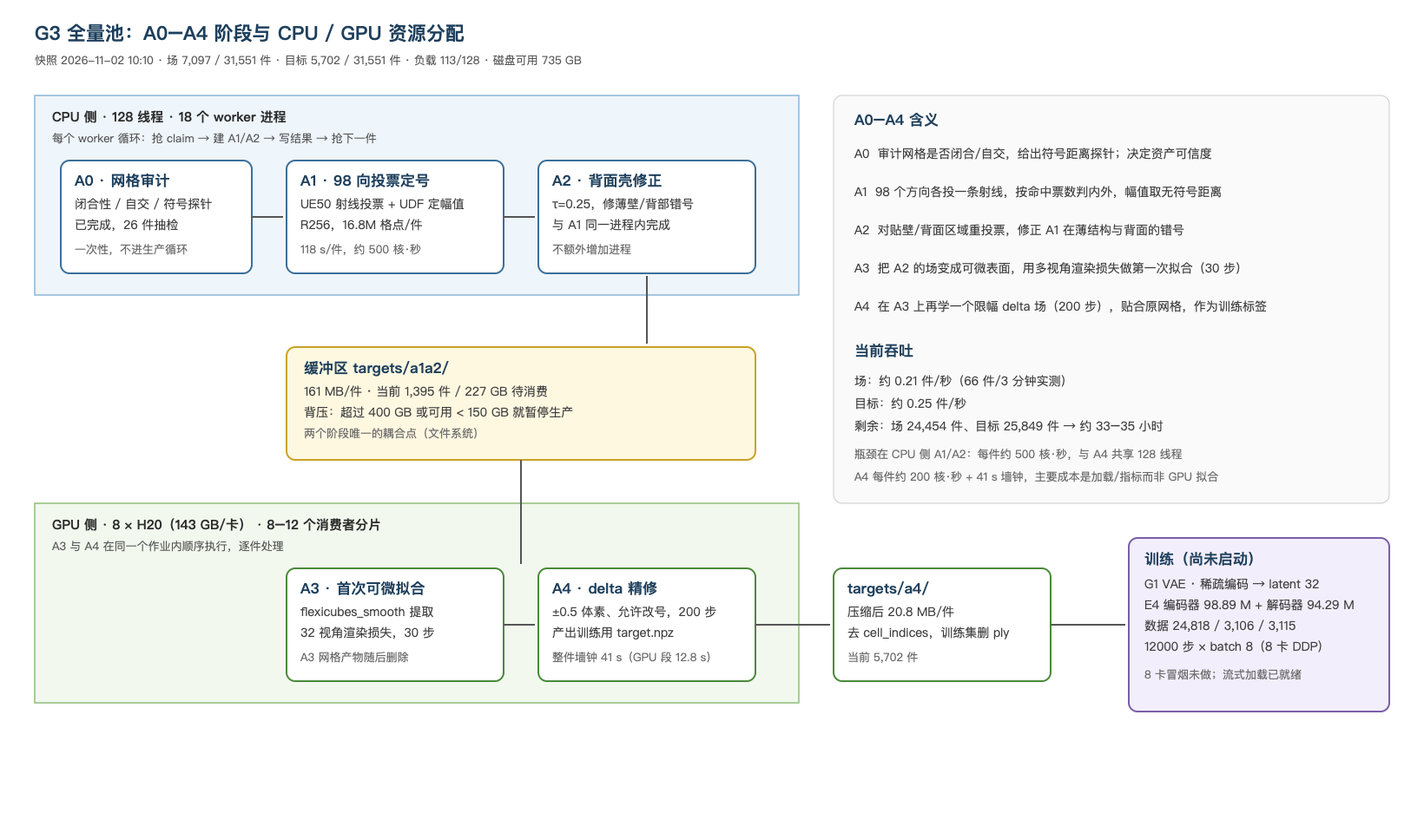
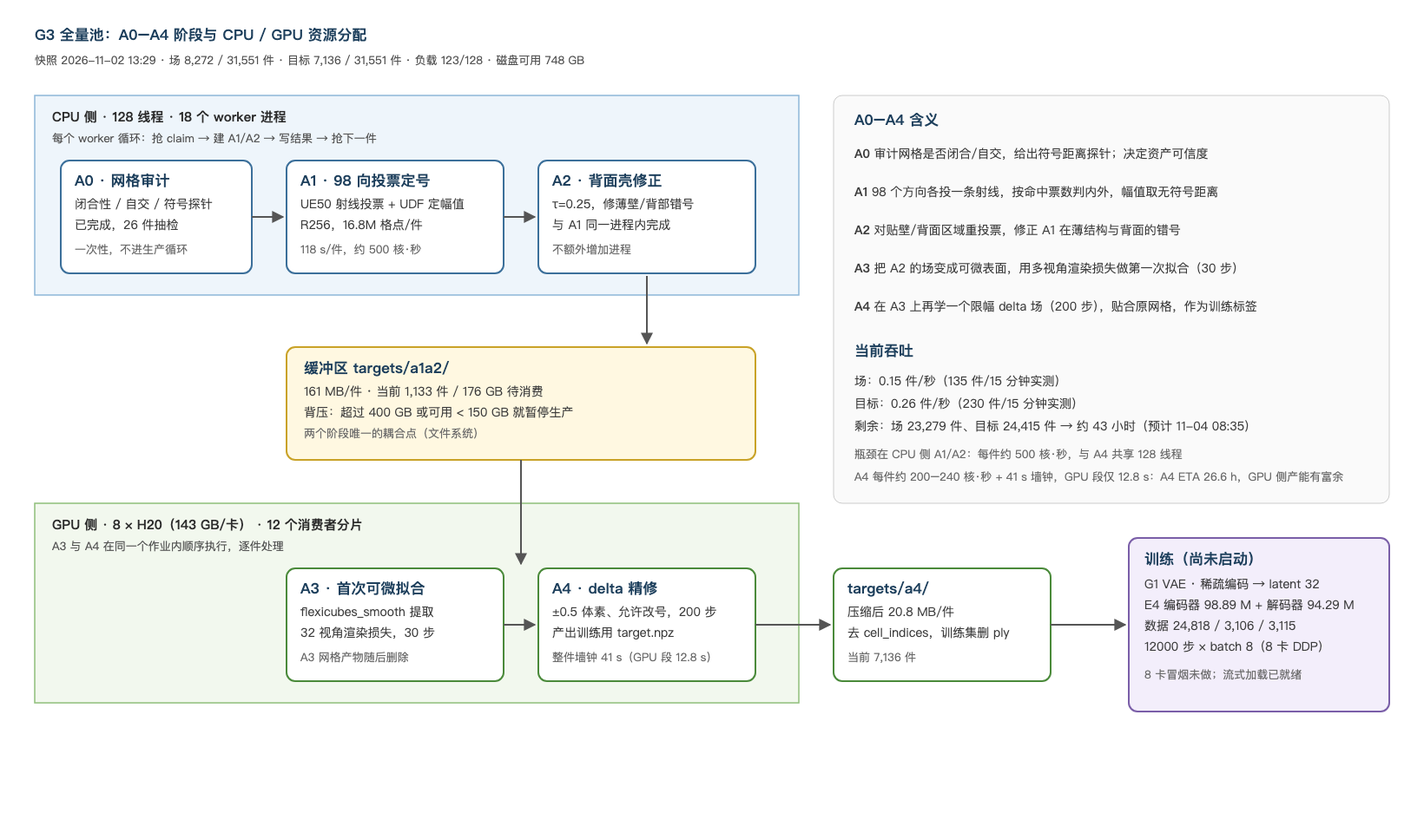
codely: restate the G3 resource map from live 13:29 numbers
The 10:10 snapshot was stale in every quantity that matters for
scheduling, and it still claimed A4 was the constraint. At 13:29 the
field stage is 8,272 / 31,551 at 0.15 items/s while targets are
7,136 / 31,551 at 0.26 items/s, so A1/A2 is now the single bottleneck
(43 h vs 26.6 h) and the 43 h total ETA follows from it.

The document now carries those numbers, keeps the ASCII pipeline
replaced by the rendered figure, and the SVG source and PNG were
re-rendered from the same measurement so the two do not drift.

diff --git a/CODELY.md b/CODELY.md
@@ -5,10 +5,14 @@
 ### User
 
 ### Feedback
-- [2026-10-31 20:09:13] 远端实验约束（用户要求，2026-10-31 更新）：除 /data/hi3d/hi3d-vae-field 仓库外，任何脚本/产物都必须放进单独一个独立目录（如 /data/hi3d/g1/analysis-0-7-v1/、/data/hi3d/g2/analysis/），防止改坏；既有缓存与训练目录只读。GPU 可用白名单为 1/2/3/7，**0 号明确禁止使用**，4/5/6 有他人进程不动；训练仍固定单卡（当前 GPU7），诊断/评测可用其他白名单卡并行。
+- [2026-11-01 15:41:19] 远端实验约束（2026-10-31 起，2026-11-01 更新 GPU 白名单）：除 /data/hi3d/hi3d-vae-field 仓库外，任何脚本/产物都必须放进单独一个独立目录（如 /data/hi3d/g1/analysis-0-7-v1/、/data/hi3d/g3/exp-35k-r256-e4-v1/），防止改坏；既有缓存与训练目录只读。GPU 白名单为 0/1/2/3/7（用户 2026-11-01 明确"0 号卡现在可用"，取代此前"0 号禁止使用"），4/5/6 有他人进程不动。
+
 
 - [2026-10-31 10:54:08] 用户不需要助手主动编写/更新交接文档或 HANDOFF（2026-10-31 明确纠正"不是让你写交接文档"）：文档由用户与另一个模型维护，助手只做阅读、分析、实验与代码改动。仅在用户明确要求时才写文档。
 - [2026-10-31 23:32:24] 单卡 run 必须显式 CUDA_VISIBLE_DEVICES：train_g1.py / evaluate_g1.py 缺省用 cuda:0，不设环境变量就会落到物理 0 号卡（2026-10-31 DDP smoke 的基线 run 就误用了 0 号，已停掉重跑）。任何单卡训练/评测命令都写 CUDA_VISIBLE_DEVICES=7（或其它白名单卡）。
+- [2026-11-01 15:50:42] 清理约束（用户 2026-11-01 明确）：旧实验（R128、R256 78 件）不会被再次使用的 checkpoint 与中间缓存可以删除；但**结论相关的数据一律不许删**（targets 缓存、eval 报告、run 的 trace/记录）；**不要为了腾空间去改/清洗本地监控页 8767、8769 的数据来源或指向**。
+- [2026-11-01 18:18:47] G3 清单/批次的两个不可逆约束（2026-11-01 实测踩到）：①`run_initial_batch` 的 plan.json 固定了 `run_initial_batch.py` 的 sha256，**中途改这个文件会让进行中的 output-root 直接报 "Existing batch plan differs"**；要改行为只能在外部加包装模块（已建 `run_initial_batch_single_thread.py` 设 torch 线程数）。②清单必须含 `bytes` 字段（`run_initial_batch`/`run_four_route_asset` 用它做源文件校验），缺了会 `KeyError: 'bytes'`，已加进 builder 并重建清单。
+- [2026-11-01 18:18:49] 远端后台进程清理的坑（2026-11-01 踩两次）：`pkill -f "run_g3_pipeline"` / `pkill -f "run_initial_batch"` 会连**自己的 ssh 命令行**一起匹配（命令行里含 `-m experiments.vae_sdf.run_g3_pipeline`），导致 ssh 直接退出 255、后续命令不执行。正确写法：`ps -eo pid,comm,args | awk '$2 ~ /^python/ && /run_xxx/ {print $1}' | xargs -r kill`（用 comm 过滤掉 bash，避免自匹配）。
 
 ### Project
 - [2026-10-31 12:57:17] G1 诊断结论（已用实验修正）：0/7 号差不是几何/目标（目标 Chamfer/包围盒对角为 1.7e-4 与 7.9e-4）也不是表示能力或损失盲区，而是**欠收敛 + 泛化**。"近表面正偏 + 内部塌缩 + 薄壁消失"是欠收敛症状：单资产各 400 步后 0 号偏置 +0.73→−0.001、穿越召回 0.32→0.93、Chamfer 1.649→0.078；7 号 Chamfer 3.52→1.55（目标自身 1.57）。8 资产 4000 步（1911 秒）后训练侧 8/8 收敛（穿越召回 0.91–0.97、内部比例匹配、两次前向漂移 1e-5），但验证侧 0/30 只有 0.66/0.72 且 30 号 3000 步后轻微回退 → 瓶颈是泛化，不是步数。总场 MAE 仍不是有效闸门（73–79% 误差在 |s|>2 远场带，与网格无关），应看穿越 cell 召回/精度、内部体积比、近表面有符号偏差。
@@ -29,6 +33,30 @@
 - [2026-11-01 00:15:51] R256 训练的 NaN 问题未解决（2026-10-31，r256-r128cells-78a-12000s-v1/v2/v3 三次同位置复现）：第 126 步（68 号，4.17M cell）前向即全 NaN（signed 非有限数 = 4,170,644×8、delta = ×24），目标有限；同一资产从初始权重单独跑 20 步正常（loss 2.16→0.90，峰值 88 GB）；第 125 步 optimizer.step() 后的全参数审计未报非有限 → 不是权重被写坏，NaN 出在前向内部，最可能是稀疏解码器某层空组/退化归一化（support 项即 cls_head logits 为 NaN，PointGroupNorm 类会把单点 NaN 扩散到整批）。处置：train_g1 改为"跳过非有限批次 + 逐层诊断（levels_nonfinite/levels_sites/latent_nonfinite）+ --max-skipped 默认 20 才中止"，并新增 optimizer.step 后的参数审计；当前跑 v4（/data/hi3d/g2/runs/r256-r128cells-78a-12000s-v4），监控页 http://127.0.0.1:8769/（8767 仍是旧 G2 预实验 run；view_g1 一次只接一个 run 目录）。
 - [2026-11-01 13:01:04] R256 训练与评测已完成（2026-11-01，取代"v1 启动/NaN 未定性/v4 在跑"的旧记录）：run = /data/hi3d/g2/runs/r256-r128cells-78a-12000s-v5，GPU7 单卡 78 件 12000 步，**6.94 h** 跑完，单步中位 1.92 s、均值 2.24 s（拟合 sec ≈ 0.17 + 1.35 µs × 最细 cell），loss 2.157→0.046、field 1.559→0.033，峰值 87.7 GB，每 2000 步一个 checkpoint。NaN 在 12000 步里**只出现 1 次**（第 126 步，68 号），跳过未更新后跑通，逐层诊断字段无效（occupancy 是 3 个 0-d 标量），但 latent_nonfinite=0 把范围收窄到"latent 之后、解码器内部"。评测（val 0/30/50–57、test 1/58–66，两分辨率同集；R128 基线用同一评测器重算）：Chamfer 中位 val 1.271e-3→**3.943e-4**、test 1.230e-3→**4.736e-4**，P90 val 2.340e-3→7.863e-4、test 2.775e-3→1.882e-3，F@0.5% 0.9734/0.9864→0.9947/0.9957，支撑精度/召回均升，场 MAE 0.387/0.388→0.356/0.353；**test 10/10 件同向变好**，比值中位 0.34（≈2.9×），中位绝对改善 −8.47e-4。但 watertight 4/10→3/10、test 边界边中位 9→74 变差（最差 58 号 2140→13830）。结论：分辨率是有效杠杆、原先的"1.16e-3 表示下限"是分辨率绑定而非 latent 容量上限；**闸门口径冲突待用户裁决**——按绝对中位数（<1e-3）判负，按逐件配对符号+相对比值判正，未确认前不能把 R256 写成方案主分辨率。
 - [2026-11-01 13:01:06] 评测侧的 R256 适配（2026-11-01）：evaluate_g1.py 的归一化半径原先硬编码 (128-2)/128，R256 会把网格按 R128 尺度归一化、指标全错，已改为 (args.resolution-2)/args.resolution；R256 评测必须加 --max-predicted-sites 8000000（默认 2M 会截断预测支撑）；--role 只接受 train/val，test 只能不传 --split 直接给 --indices；且 --split 必须是该 run 训练时用的那一份（R256 用 split-g2-100-v1-r256-minus2.json，与 R128 的 split-g2-100-v1.json 的 sha 不同，混用会在 provenance 校验处报 mismatch）。对照类结论必须写清评测器/split/采样数/checkpoint 步数，跨版本换评测器时要重算基线，不得混用历史数字（R128 历史 1.16e-3/1.18e-3 vs 本次重算 1.271e-3/1.230e-3）。
+- [2026-11-01 14:17:07] G3 实验已开（2026-11-01，用户决定）：数据集 = /data/TRELLIS/datasets/ObjaverseXL_github/raw/github/objects/（实测 34,847 文件 / 121 GB），R256，编码器放大（用户选 E3），训练预算 12000 步 × batch 8（8 卡，会用到 0 号以外全部卡）。新文档 docs/experiment-records-g3-encoder-scale-v0.1.md，新监控页 http://127.0.0.1:8770/ → /data/hi3d/g3/runs/encoder-scale-r256-v1（开训前显示 waiting）；产物根 /data/hi3d/g3/{audit,converted,probe,runs}。utils 与 data 分离，未动 /data/hi3d/g1、g2。
+- [2026-11-01 14:17:10] 数据池格式实测（2026-11-01，每扩展名各抽 40 件，experiments/vae_sdf/audit_mesh_pool.py → /data/hi3d/g3/audit/format-audit-v1.json）：obj 5,997 全通过、glb 3,239 全通过（Draco 解码约 190 ms）、stl 620 / ply 110 全通过；**gltf 2,962 只有 52.5% 通过**（18/19 失败是引用的外部 .bin 缺失=资产本身残缺，转换救不回）；**fbx 18,077 / blend 2,647 / dae 1,187 全部 0%**（trimesh 不支持 fbx/blend；dae 只差 `pip install pycollada`）；abc 6 与 2 个无扩展名不可用。合计立即可用 11,521 件（33%），转换后上限约 96%。转换工具 experiments/vae_sdf/convert_mesh_pool.py（headless Blender 5.2.2，`/usr/local/bin/blender`，几何专用 GLB、丢弃材质贴图、断点可续、写 conversion-manifest.json）：冒烟 12 件 11 成功、6 并发 6.8 s；全量 21,911 件 24 并发预计 1–2 h、输出约 50 GB 到 /data/hi3d/g3/converted/glb-v1/。面数分布极不均（obj 中位 1,784、gltf 480、glb 10,584）→ 结论是**不要按面数过滤训练集**（会造成分布偏移且低面数件退化不可见），改为只剔退化件 + 记录目标自误差做置信度软加权 + 按面数分位分层抽样与分层报告。
+- [2026-11-01 14:17:13] 编码器放大（E3）实测与实现（2026-11-01）：g1_model.py 新增 ENCODER_LADDER（E0 32/64/128/256×2 blocks、E1 64/128/256/512、E2 96/192/384/768×3、E3 128/256/512/1024），`encoder_config(scale=)`/`G1Encoder(scale)`/`G1VAE(decoder, encoder_scale)` 参数化，latent 仍为 32（否则解码器预训练权重无法严格加载）；train_g1、train_g1_ddp、probe_r256_memory 均加 `--encoder-scale`。E3 实测：编码器 43.99 M（对 E0 的 2.77 M 是 16×）、解码器 94.29 M、总 138.28 M；**单步时间与显存几乎不变**（R256 78 件轮转 40 步：中位 1.62 s / 均值 1.96 s，对 E0 的 1.92/2.24 反而略快；26–27 kB/cell，0.32M cell→8.6 GB、2.7M→65 GB），原因是编码器每层点数按 8× 递减且逐 block checkpoint。E3 只到解码器的 47%，若要真正同量级需 E4（≈90 M，成本同阶）。判据建议：test Chamfer 中位需从 4.7e-4 再降 ≥1.5×，否则说明瓶颈不在编码器容量。
+- [2026-11-01 14:17:16] G3 的存储与"在线生成 vs 缓存"判断（2026-11-01）：/data 已从剩 133 GB 释放到 **1.1 TB 可用**，改变了可行性——训练只需的 A4 目标压缩成 int16 坐标/cell + fp16 场后 ≈15–20 MB/件，**35k 件全量 ≈525–700 GB，可行**（fp32 版 1.4 TB 不可行，全链原始缓存 8.7 TB 仍不可行）。12000 步 × batch 8 = 96,000 次资产更新 ≈ 对 35k 件 2.75 个 pass。纯在线生成：内存不是问题，但要在约 12 h 窗口内造完 35k 件需每秒 0.8 件 → A1/A2 需 ≈103 核（80% of 128）、A3/A4 需 ≈9.6 卡（超过 8 卡），刚好跟不上且与训练抢 GPU；**更关键的是 A3/A4 拟合不可逐位重现（A4 场 RMS 0.22、网格 Chamfer 1.07e-3）大于当前模型误差 4.7e-4，现场重算等于注入比信号更大的目标噪声**。结论：缓存优先，滚动缓存（如 2,000 件一池后台替换）次选，纯在线只适用于 fine 级改用确定性几何 SDF（协议变更需单独标定）。目标生成总成本（35k）：A1/A2 ≈9.7 h（128 核）、A3/A4 ≈19.4 h（8 卡）。
+- [2026-11-01 15:35:52] G3 改为独立实验目录（2026-11-01，取代"产物散在 /data/hi3d/g3/{audit,converted,probe,runs}"）：**/data/hi3d/g3/exp-35k-r256-e4-v1/**，内含 README.md（实验卡）、manifest/、targets/、runs/、logs/、reports/；只读引用源网格池、池级转换产物 /data/hi3d/g3/converted/glb-v1/ 与历史 g1/g2 产物。编码器**最终采用 E4**（用户 2026-11-01 更正）：widths 192/384/768/1536、每层 2 block、latent 仍 32；实测编码器 98.89 M + 解码器 94.29 M = 193.18 M，单步中位 2.07 s / 均值 2.51 s、峰值 84.6 GB（2.7M cell 单步 72.7 GB）、≈27 kB/cell；checkpoint ≈2.3 GB；`--encoder-scale E0..E4` 已接入 train_g1、train_g1_ddp、probe_r256_memory（g1_model.ENCODER_LADDER）。
+- [2026-11-01 15:36:01] 全量池转换与清单实测（2026-11-01）：转换 21,911 请求 → **20,693 成功（94.4%）**，失败 1,209、超时 9，输出 26.4 GB（几何专用 GLB，无材质贴图），24 并发耗时 62 分钟，产物 /data/hi3d/g3/converted/glb-v1/。清单构建 build_g3_inputs.py：每个 asset id 一条（fbx/blend/dae 用转换 GLB，obj/glb/gltf/stl/ply 用原文件），逐件 sha256 + load_mesh 试载、记录面数/顶点/bbox、剔退化（<50 面或零 extent），按面数 5 分位分层 80/10/10 → manifest-g3-full.json / load-audit-g3-full.json / split-g3-full-v1.json / build-summary.json；候选 **33,621 件**；冒烟 300 件：296 可用、4 退化、转换件占 68%、面数中位 4,215（P10 346 / P90 52,256）。另经验证：**cell_indices 可由 cells+coords 用 VAE_CORNERS 精确重建**（对现有 R256 cache 比对 0 mismatch），因此压缩缓存可省掉它（占 raw 42%）；raw_mesh.ply 与 resolved_config.json 必须保留（评测与 provenance 用）。
+- [2026-11-01 15:36:10] G3 训练排法与开跑前阻塞项（2026-11-01，待用户确认排法）：三个方案——A（推荐）E4 先跑 8 卡 batch 8 12000 步 16–18 h，E0 随后同配置补对照 14–16 h；B E4/E0 各 4 卡 batch 4 并行约 15 h（两臂同口径但每件更新减半）；C 只跑 E4 16–18 h（放弃归因）。**为什么仍要 E0 一臂**：它是唯一能测"31k 件数据单独买到多少"的对照（已知数据 8→80 件约 3.1×、R128→R256 约 2.6×）；若 E0 已接近 2.5e-4 则容量不是约束。两个阻塞项：①**容量策略**——E4 ≈27 kB/cell，2.7M cell 84.6 GB → 4.4M≈119 GB、5.0M≈135 GB 触卡，须用清单面数/bbox 预估 R256 cell 尾部并冻结"预估 ≤4.0M 才进训练集"的确定性口径，两臂同口径；②**8 卡 E4 冒烟**（200 步、约 20 分钟）确认 NCCL、每 rank 峰值、续训。外部审阅意见（GPT）结论：采纳"先做同数据同预算 E0/E4 对照""加宽不修边界""本轮不同时改 decoder/latent/损失"；"训练 GT 子 cell vs 评测预测 logits 的路径差异"确实存在但优先级次之（R256 test 支撑精度/召回 0.9948/0.9964，问题是外壳整体窄一圈，故边界漏预测加权比软选择更对症）；若 E4 无效，下一步先只换解码器第一层输入投影做 latent 32→64（其余预训练权重仍严格加载）。
+- [2026-11-01 15:41:22] G3 训练排法已定方案 A（用户 2026-11-01 决定）：E4 先跑 8 卡 batch 8 × 12000 步（≈16–18 h），随后 E0 同配置对照（≈14–16 h），以便分离"数据规模"与"编码器容量"；GPU 0 号现已可用，8 卡训练可含 0 号。
+- [2026-11-01 16:28:34] G3 容量策略已冻结并执行（2026-11-01，用户确认）：预估 R256 support cell ≤ 4.0M 才进训练集，超限整件排除（不留在 val/test），两臂同口径。预估器 experiments/vae_sdf/estimate_target_capacity.py：cells ≈ exp(13.385837)·area^0.795513（area 为 R256 归一化表面积），用 g2 100 件 A4 audit 实测 cells 标定，中位误差 15%/P90 33%，标定集上判超限 4 件与实测一致。全量结果：31,551 件中排除 512 件（1.62%），split 25,241/3,155/3,155 → 24,818/3,106/3,115；产物 manifest/capacity-policy-v1.json 与 split-g3-full-v2-capacity.json（注意 check_split 要求用 v2 这个 split）。
+- [2026-11-01 18:18:45] A1/A2 目标真实成本（2026-11-01 实测，取代旧条目"A1/A2 35k ≈9.7 h（128 核）"的估计）：R256 单件空载 133 s 但吃 415% CPU（≈552 核·秒），OMP/MKL/OPENBLAS/torch.set_num_threads 全设 1 也压不下去（内部自带并行，属真并行非空转）。31,543 件满机 128 核约 **35–38 小时**；96 并发实测 0.25 件/秒。A4 反而轻：单件 8.5–30 s（0.6M cell→10 s、2.8M→20 s），8 卡约 13–20 h 且与 A1/A2 重叠。
+- [2026-11-01 18:18:53] G3 开训前的未解决阻塞项（2026-11-01 实测发现，交接文档没有记）：`train_g1` / `train_g1_ddp` 启动时会用 `load_asset` 把**全部**选中资产的张量一次载入（`--asset-device cpu` 只是放主机内存），78 件时约 120 GB 可行，但 24,818 件是过 TB 级、必然不可行。必须在正式 8 卡训练前改成按步从磁盘流式加载（np.load 当前资产 + 小 LRU），并重测单步时间。此外 A4-only 汇总器（schema 保持 `g0_four_route_paired_summary_v1`，train_g1 走 `--paired-summary` 路径）仍未写。
+- [2026-11-01 19:01:23] G3 的 GPU 射线路径在这个容器里不可用（2026-11-01 实测）：vae3d 的 dxr/vulkan 后端依赖 `slangpy==0.42.0`，装上后 CUDA 设备能建（NVIDIA H20-3e），但 **Vulkan 设备全部失败**（`[ERROR] (rhi) layer: Failed to create Vulkan instance`，带/不带 VK_ICD_FILENAMES、/dev/dri 存在、驱动 580.126.20、/etc/vulkan/icd.d/nvidia_icd.json 都在）。因此 A1/A2 只能留在 CPU（open3d RaycastingScene(nthreads=8)），约 35 h 全量；要提速得先修容器的 Vulkan。安装方式：venv 本来无 pip，先 `python -m ensurepip --default-pip`，再把 slangpy 装到独立目录 `<实验>/vendor/slangpy-0.42.0`（删掉其中的 numpy 2.2.6 以免遮蔽 venv 的 numpy 1.26.4）。
+- [2026-11-01 19:34:38] G3 磁盘策略已定并落地（2026-11-01，用户选方案 1）：①A4 的 `target.npz` 去掉 `cell_indices`（占 npz 31%），加载时用 `g0b_field_adapter.rebuild_cell_indices()`（coords[cell_indices]==cells+VAE_CORNERS 的精确查表）重建，验证 12/12 逐位一致、`train_g1.load_asset` 实跑通过；②`raw_mesh.ply` 只保留 val/test（6,733 件），训练集删除；③组大小 800→400 把在飞 A1/A2 从 216 GB 降到 108 GB；④编排器新增 `--min-free-gb`（默认 60）空间闸门，低于阈值在下一组前干净停止。实测 A4 从 33.3 MB/件降到 npz 均值 20.8 MB/件，全量 31,551 件预估 ≈658 GB（旧记录"A4-only ≈18 MB/件"偏低，实测是 33 MB/件未压缩）。守护进程 `experiments/vae_sdf/compact_g3_targets.py`（watch 模式，2 分钟一轮，只处理有 audit.json 的完成目录，写临时名+os.replace 原地替换）。
+- [2026-11-01 19:34:55] G3 五阶段定义（2026-11-01 整理，便于后续沟通）：A0 = 网格闭合/自交审计+符号距离（open3d 射线奇偶，假设水密；G3 池只留 id 的 provisional 审计）；A1 = 98 方向 UE50 射线投票定符号、UDF 定幅值的初始场（CPU，重活）；A2 = τ=0.25 背面壳修正 A1 在薄壁/背部的错号；A3 = 首次可微拟合（flexicubes_smooth 提取 + 32 训练视角/12 留出视角的 silhouette/depth/normal 渲染损失，30 步）；A4 = 在 A3 上再学限幅 ±0.5 体素、允许改号的 delta 场（200 步），产出训练真正使用的 target.npz。A3 目录在 A4 成功后由 run_g3_a4_batch 立刻 prune 删除。
+- [2026-11-01 19:34:58] 磁盘回收记录（2026-11-01）：删除 g1 的 flexicubes-smooth-r128-eight-train-{400,1000-resume,4000}-v1、flexicubes-smooth-r128-two-v1、overfit-index{0,7}-400-v1 与 g2/runs 的 ddp-smoke-r128-80a-{20s,30s-resume}-v1、single-r128-80a-20s-gpu7-v1、r256-probe-idx68-20s-v2 里的 *.pt，释放约 31 GB（/data 从 1019→988 G 已用，可用 880 G）。**保留**两个被本地监控页引用的 run（8767 → /data/hi3d/g1/g2-hundred-flexicubes-smooth-r128-v1，8769 → /data/hi3d/g2/runs/r256-r128cells-78a-12000s-v5）的 checkpoint，因为用户要求不改监控页数据来源。targets/eval/报告/trace 一律未动。
+- [2026-11-01 20:40:43] G3 流式训练已实现并验证（2026-11-01）：新增 `experiments/vae_sdf/streaming_targets.py`（`scan_ready` + `LazyTargets`，按 manifest index 惰性加载、LRU 驻留），`train_g1`/`train_g1_ddp` 新增 `--targets-root`/`--stream-resident`，不再需要预先覆盖全 manifest 的 summary；`--split` 走新的 `check_split_subset`（只校验用到的资产都在该 role 内），即训练集资产可随目标落盘逐步扩大。启动时冻结「已完成集合」，未完成的留给下一次 run，保证 E0/E4 可重放同一顺序。实测单步耗时（E4、R256、单卡）：64k cell = 0.3 s、957k = 2.5 s（含换件重载 0.5–2.8 s）、2.76M = 5.3 s；**首次 backward 有一次 455 s 的预热**（cuDNN/cuBLAS/spconv 算法初始化），之后正常——所以任何 run 的前 5–8 分钟很慢属正常，不要误判为卡死。
+- [2026-11-01 20:54:41] "带内投票"加速方案已评估并否决（2026-11-01，原型已回退，代码与 1.4 GB 缓存均已删除）：用户指出关键风险——A2 的门控面由**整个 counts 场**的 25% 等值面提取，候选点虽距原 mesh ≤3.73 体素，但决定它的门控面可能在更远处；只算 4 体素壳带会在边界人为截断投票场、生成错误/缺失门控面，从而改变带内 A2 值。此外该池大量开口/薄片/绕序不可靠 mesh，"带外符号显然"不成立，替代规则可能在带边界制造新符号交叉。收益核算（按实际支撑数据）：4 体素带约覆盖网格 23%、8 体素 46% → 只省约 4×（A1/A2 33 h → 9–14 h），而验证需 12–16 h 且**无法与在跑的流水线并行**，净收益仅 3–11 h，还要搭上 A1/A2 协议变更导致无法与 g2 的 R256 基线（3.943e-4/4.736e-4）直接对照。结论：本轮不做，留作无 run 在飞时的独立研究。若日后要做，必须先做离线反事实分析（用完整 counts 作 ground truth，按 4/8/12 体素带 × 闭合/开口/薄片分层，比较门控面位移与带内改号点数），且 4 体素只是第一个被测阈值。
+- [2026-11-01 23:19:51] G3 A4 真实成本修正（2026-11-01 实测，取代旧记录"A3/A4 11.8 s/件"）：A4 单件**空载 33.3 s**（8 卡 = 0.208 件/秒，全量 31,551 件需 36.5 h），与 A1/A2 抢 CPU 时升到 42.9 s。配置 image_resolution=4096、views=32、a3_steps=30、a4_steps=200。**A4 是目前两个阶段里的硬底线**（45 h 量级），提高 A1/A2 并发不会缩短它，只会互相拖慢：96 进程时 load 385、A4 掉到 0.11 件/秒；32 进程时 load 127、A1/A2 0.154 件/秒、A4 0.167 件/秒。每个 A1/A2 进程自带约 4.15 核并行（OMP/MKL/OPENBLAS/torch 线程限制都压不住）。
+- [2026-11-01 23:19:55] G3 GPU 白名单已放开到 0–7（2026-11-01 用户确认，取代旧的 1/2/3/7）：`GPU_WHITELIST = (0,1,2,3,4,5,6,7)` 改在 run_four_route_asset.py 与 train_g1_ddp.py 两处。**4/5/6 三张卡实际被用户 bosheng 的进程占着**（`/data/bosheng/vae3d` 的 multiprocessing.spawn worker，已跑 2 天、GPU 利用率持续 0%、各占 650–750 MiB），用户明确"可以挤占"，所以 A4 用满 8 卡；若对方恢复计算会双方各分一半（变慢但不 OOM）。教训：白名单之外的卡会让 `run_g3_a4_batch --physical-gpu N` 直接 argparse 报错退出，编排器只看到"分片秒退"，很容易误判为 8 卡并行（当时实际只跑了 4 张）。
+- [2026-11-01 23:20:00] G3 编排器的两个已修缺陷（2026-11-01，都在 run_g3_pipeline.py）：①A1/A2 生产者只按"组号 +N"预取，若那些组的 A1/A2 早已完成就完全不提交 → CPU 空转（实测 a1a2 进程数掉到 0、负载 22）。现在用 `finished_a1a2`（a1a2/assets/*.json 的 index 集合）+ `needs_a1a2()` 跳过已完成组，按"还需工作的组"预取 `--prefetch-groups 6`。②首个分片原先同步等待写完 plan.json 才并发其余分片，导致组内先串行跑一个分片；改为后台 Popen 等 plan.json 出现后再并发。注意 `run_initial_batch` 的输入目录里若已存在 plan.json 且 manifest sha 不符会直接报错，重建清单后必须重新处理。
+- [2026-11-02 01:39:27] G3 工期估算的事后修正（2026-11-02，重要）：早期"A1/A2 35–38 h"的算式 `31,543 × 550 核·秒 ÷ 128` 隐含"①A1/A2 独占全部 128 线程、②A4 不吃 CPU"，两条都不成立。实测 A4 每件还要约 200 核·秒（墙钟 44 s 里 A3+A4 只占 12.8 s，其余是子进程导入 9.9 s + 读 135 MB 缓存 + A3/指标/写盘）。正确下限 `31,543 × (550+200) ÷ 128 ≈ 51 h`，叠加调度损耗后 45–65 h 才是这台机器的真实能力。凡是"单阶段耗时"不能当"整机吞吐"，必须按总核秒算。
+- [2026-11-02 01:39:35] G3 编排器并发参数实测（2026-11-02）：①A1/A2 并发甜点在 16–20 个进程（每进程约 6 线程时负载贴 120/128）；26/32/96 进程会把负载推到 180/240/385，单件从 130 s 涨到 270–290 s，吞吐反降。②`--producer-workers 3`（多组同时生产）+ 每组 5 分片 = 15 进程可消除"组尾只剩 3 个进程"的空档；单组时的空档是 A1/A2 速率忽高忽低的主因（10 分钟完成件数在 10 ↔ 95 之间跳，但单件中位一直稳定在 112–140 s）。③A4 分片数用重复 GPU 号控制（`--gpus 0 0 1 1 …` = 每卡 2 个分片）：16 分片空载 0.292 件/秒 vs 8 分片 0.208；但 A1/A2 才是瓶颈（0.09–0.13 件/秒），提高 A4 产能无助于缩短总时长，只有"降低 A4 的 CPU 占用 / 让出核给 A1/A2"才有意义。
+- [2026-11-02 09:32:44] 更正并取代"back_shell nthreads=8 是超订根因"那条（2026-11-02 实测）：已在 `run_initial_batch_single_thread.py` 里猴补丁把 `open3d.t.geometry.RaycastingScene` 改成 nthreads=1，**单件耗时与 CPU 占用完全没变**（121 s / 435–518% CPU，改前改后一致），说明射线投射本来就是单线程在跑、那 8 个线程是空转；真正吃多核的是网格加载、A2 背壳构造与 evaluate_pair 指标。把 `--samples` 从 4096 降到 64 也只从 121 s 降到 117 s。结论：A1/A2 每件约 **500 核·秒是算法成本**，改线程数或指标采样都救不了。补丁保留（无害、结果一致）。
+- [2026-11-02 09:32:48] G3 流水线最终结构：按资产解耦的生产者—消费者（2026-11-02 上线，取代 run_g3_pipeline.py 的按组编排）。原因：按组时 A1/A2 的工作清单由「A4 缺失」导出，A4 一落后生产者就没活干（实测出现负载 20/128、生产者只剩 2 进程），且 A4 必须等整组完成才启动。新结构：`run_g3_stream.py` + `run_g3_producer_worker.py`——①资产是工作单位，worker 用 `O_EXCL` 抢 `claims/{index}.claim` 一次领一件、做完再领、claim 30 分钟过期可接管；②生产者在进程内循环跑 `prepare_initial_targets.run`，省掉每件约 10 s 的进程启动；③A4 消费者只取 A1/A2 已完成的资产，未就绪记 `deferred`（`run_g3_a4_batch.py` 已改）并退回队列；④背压按**待处理字节数**：待处理件数 × 实测单件 160.9 MB，超 `--pending-gb 250` 或可用 <150 GB 就写 `a1a2/pause` 文件让 worker 退出、恢复后自动重启。实测（18 生产者 + 12 消费者）：**0.16 件/秒场、0.14 件/秒目标、负载 127/128**，A1/A2 单件 118 s、A4 单件 41 s，积压 615 件/103 GB，总时长约 50 h。按组编排时是 0.11 与 0.09–0.28（波动）。
 
 ### Reference
 - [2026-10-31 12:57:23] G1 场诊断与闸门工具索引：/data/hi3d/g1/analysis-0-7-v1/（analyze_fields.py 分段场统计含近表面有符号偏差、support_analysis.py 多余支撑、support_consistency.py 两次前向漂移、reference_export.py 任意 index/checkpoint 导出、gate_report.py 一次性出闸门表并写 gate.json）。G2 输入构建脚本 /data/hi3d/g1/make_g2_inputs.py，产物在 /data/hi3d/g1/g2-prep/（manifest-g2-100 / load-audit-g2-100 / a0-audit-g2-100 / split-g2-100-v1，80 训练/10 验证/10 测试，val 锚点 0 与 30）。本地监控：`python3 -m experiments.vae_sdf.view_g1 --port 8767 --no-browser --run <远端run目录>`，页面 http://127.0.0.1:8767/ ，未启动的训练目录显示 waiting。远端可用 python 为 /data/hi3d/hi3d-validation/.venv/bin/python（numpy 1.26.4 + torch 2.5.0+cu124）；跑仓库模块需 PYTHONPATH=/data/hi3d/hi3d-vae-field:/data/hi3d/g0-prep/vendor:/data/hi3d/g0-prep/vae3d，评估类脚本（涉及 open3d）要用 vendor-full，并设 LD_LIBRARY_PATH=<venv>/lib/python3.10/site-packages/torch/lib，加 -B 避免写入仓库 __pycache__。
@@ -38,3 +66,11 @@
 - [2026-10-31 23:32:40] R256 相关工具与产物索引（2026-10-31）：探针 experiments/vae_sdf/probe_r256_memory.py（单步显存，--cycles 重复同一批资产、--keep-locals 模拟训练循环，用于区分"件太大"与"跨步累积"；输出 /data/hi3d/g2/analysis/r256-mem-probe-v{1..4}/probe.json）；run_four_route_batch 现支持 --resolution（写入 batch identity，旧根目录缺该字段按 128 兼容）；summarize_four_route_batch 按 identity 的 resolution 找 R{res} 缓存并需显式 --output（否则只打印）；train_g1 / train_g1_ddp 的 trace 每行新增 cuda_allocated_before / cuda_step_peak_bytes / cuda_allocated_after，两处训练器都支持 --asset-device {cpu,cuda}。R256 产物：/data/hi3d/g2/targets/r256-a1a2-v1/{summary.json,plan.json,assets/NN.json}、/data/hi3d/g2/targets/four-route-r256-v1/{batch-status.json,paired-summary.json}；R256 跑训练要 PYTHONPATH 加上 vendor 四件套并设 PYTORCH_CUDA_ALLOC_CONF=expandable_segments:True。
 - [2026-11-01 00:15:54] 本阶段实验与改动汇总文档：docs/reports/g2-r256-and-resolution-limits-2026-10-31.md（含：DDP smoke 数据、R256 目标全量生成与 R128/R256 质量对照表、单步显存探针逐资产表、R256 单步成本、NaN 证据链、R2048 三卡点与 A–F 六种方案及建议、复现命令、未验证风险）。同目录另有 g2-pretest-status-2026-10-31.md（R128 阶段）。
 - [2026-11-01 13:01:08] 阶段进度总表（状态层）：docs/experiment-records-v0.2.md —— 五阶段 × R128/R256 状态、R256 训练结果、R128 vs R256 评测对照与闸门口径冲突、卡点、关键数字速查；旧版 v0.1 已删除（内容并入 v0.2）。证据层：docs/reports/g2-r256-and-resolution-limits-2026-10-31.md 现含 §6「R256 训练结果与评测对照」（6.1 训练结果 / 6.2 评测协议 / 6.3 指标表+逐件配对 / 6.4 结论与口径冲突）、§7 NaN、§8 R2048 方案、§9 复现命令、§10 未验证风险。评测产物：/data/hi3d/g2/eval/r128-12000-{val,test}-v1、r256-12000-{val-v2,test}-v1（各自 report.json + 每资产 raw mesh）。
+- [2026-11-01 14:17:18] G3 索引（2026-11-01）：文档 docs/experiment-records-g3-encoder-scale-v0.1.md（目标与配置、现状基线、数据审计与转换、存储/在线判断、编码器阶梯与 E3 实测、里程碑、待决策、监控与产物路径）。新工具 experiments/vae_sdf/audit_mesh_pool.py（按扩展名分层试载审计）与 convert_mesh_pool.py（Blender 批转换，几何专用 GLB）。编码器阶梯在 experiments/vae_sdf/g1_model.py 的 ENCODER_LADDER。产物：/data/hi3d/g3/audit/format-audit-v1.json、/data/hi3d/g3/converted/{smoke,glb-v1}/、/data/hi3d/g3/probe/e3-memory-v1.json、/data/hi3d/g3/runs/e3-cost-probe-v1。远端 Blender 版本 5.2.2（/usr/local/bin/blender），无 assimp/fbx2gltf、venv 内无 pycollada。
+- [2026-11-01 15:36:13] G3 常驻页面与后台作业（2026-11-01，已改为重启 session 不受影响）：本地五个查看页 8765 网格浏览器（balanced50 四路线）、8767 旧 G2 预实验训练监控、8768 场切片诊断、8769 R256 v5 监控、8770 本实验（/data/hi3d/g3/exp-35k-r256-e4-v1/runs/train-v1，开训前显示 waiting）；启动用 `.local-cache/detach.py <port> python3 -m ...`（fork→os.setsid→exec，因为 macOS 无 setsid(1)，nohup/disown 会被工具进程组清理杀掉），日志 ~/.codely-cli/viewer-logs/<port>.log。远端长任务用 `setsid nohup … > <实验目录>/logs/*.log 2>&1 < /dev/null &` 独立运行（注意：`pkill -f build_g3_inputs` 会连自己的 ssh 命令行一起匹配杀掉，改用更精确的模式）。清单构建日志 /data/hi3d/g3/exp-35k-r256-e4-v1/logs/manifest-build.log。相关代码：experiments/vae_sdf/{audit_mesh_pool.py, convert_mesh_pool.py, build_g3_inputs.py, run_g3_a4_batch.py}；提交 c4d8c64（builder+A4 驱动+文档）、477f376（实验独立目录）、a336c70（E4）。
+- [2026-11-01 15:38:14] G3 续接卡：docs/g3-execution-handoff-2026-11-01.md（提交 b48b278）——现状、正在运行的作业（5 个本地 detached 页面 + 远端 detached 清单构建）、已完成项、待决策的训练排法 A/B/C、开跑前两个阻塞项（容量策略 ≤4.0M cell、8 卡 E4 冒烟）、可直接照抄的续跑命令、目录与产物清单、7 条坑与约束、关键数字速查。session 重启后先读这份。
+- [2026-11-01 16:28:36] G3 清单构建的两个实测坑（2026-11-01）：①`build_g3_inputs.py` 用线程池会因 trimesh `mesh.process(validate=True)` 持 GIL 而比串行还慢（48 线程 0.33 s/件 vs 串行 0.098 vs 8 进程 0.025），必须用 ProcessPoolExecutor，16 进程全量 31.5k 件 11 分钟；②全量清单已含 `area`/`extent` 字段，容量判定不需要再加载一次网格。
+- [2026-11-01 18:18:51] G3 流水线工具与页面索引（2026-11-01 新增）：8771 = 只读流水线进度页（本地 `python3 -m experiments.vae_sdf.view_g3_pipeline --port 8771 --experiment /data/hi3d/g3/exp-35k-r256-e4-v1`，远端取数 `experiments/vae_sdf/remote_g3_status.py`，用 `.local-cache/detach.py` 起，不动 8770 的训练数据源）；编排器 `experiments/vae_sdf/run_g3_pipeline.py`（A1/A2 多进程分片 + A4 按卡分片，按 group 滚动、先跑一组预热写完 plan.json 再并发）；容量预估 `estimate_target_capacity.py`（calibrate/predict/policy 三种模式）；单线程包装 `run_initial_batch_single_thread.py`。清单产物：manifest-g3-full.json（sha 5985ceae…，含 bytes/area/extent）、a0-audit-g3-id-only.json、capacity-policy-v1.json、split-g3-full-v2-capacity.json（24,818/3,106/3,115）。
+- [2026-11-01 23:20:05] G3 收尾组件与页面（2026-11-01 新增）：①`experiments/vae_sdf/summarize_g3_a4_targets.py` —— A4-only 汇总器，输出 schema `g0_four_route_paired_summary_v1`（无 a3 段，附 a3_note），**输出文件必须写在 targets-root 目录内**（训练/评测从 summary 所在目录推缓存根），供 evaluate_g1 的 `--paired-summary` 使用；目标未全量完成前不能生成（g1_targets 要求每件 success）。②8771 页面（view_g3_pipeline + remote_g3_status）已加「预计剩余时间」：速率取自 a1a2/assets/*.json 与 a4 target.npz 的 mtime（15 分钟窗口），显示每阶段件/分、ETA 小时与预计完成时刻。③资源审计结论：A1/A2 残留仅 4 件/0.6 GB，g1/g2 剩余 checkpoint 15.2 GB（两个被 8767/8769 引用的 run 保留），无大件可回收。
+- [2026-11-02 01:39:31] A1/A2 线程数根因（2026-11-02 定位，尚未实施修复）：`/data/hi3d/g0-prep/vae3d/vae3d/back_shell.py` 的 `cpu_scene()` 写死 `o3d.t.geometry.RaycastingScene(nthreads=8)`，所以每个 A1/A2 进程固定占 8 个射线线程，`OMP_NUM_THREADS`/`MKL_NUM_THREADS`/`torch.set_num_threads` 一律无效——这就是"进程数一多就超订、单件时间从 130 s 涨到 270 s"的原因。正确修法：在 `run_initial_batch_single_thread.py` 里猴补丁 `vae3d.back_shell.cpu_scene`，改成 nthreads=1（不动 vendor 目录），之后才能安全跑 60–80 进程把 128 核喂满，A1/A2 理论可达 0.18–0.20 件/秒。open3d 射线结果与线程数无关，改线程数不影响结果逐位一致性。A4 侧同理：每个 A4 子进程墙钟 44 s 中约 31 s 是导入/加载/指标，只有 12.8 s 是 A4 拟合，所以"一件一子进程"浪费严重。
+- [2026-11-02 09:32:54] G3 方案演进文档：docs/reports/g3-pipeline-tuning-2026-11-02.md（提交 a1a4232 起，第 14 节随 13261a4 追加）——按时间记录每次方案变化的优点/缺点/实测数字/最终取舍：清单线程池→进程池、4.0M cell 容量闸门、A4 缓存压缩、流式训练、GPU 白名单 4→8 卡、A4 分片数 8/16/6/12/10、A1/A2 并发 8/96/48/32/26/20-22、生产者调度 v1-v4、线程数实验（无效）、被否决方案（带内投票、CUDA/OptiX、3080 分担、A4 预加载、降分辨率）、工期估算两轮修正，以及第 14 节的按资产解耦结构。review 或交接时先读这份。

diff --git a/docs/g3-stage-and-resource-map-2026-11-02.md b/docs/g3-stage-and-resource-map-2026-11-02.md
@@ -1,62 +1,35 @@
 # G3 全量池：阶段划分与当前资源分配
 
-> 快照时间：2026-11-02 10:10（目标生成进行中，训练尚未启动）
-> 数字来源：`/data/hi3d/g3/exp-35k-r256-e4-v1` 实测与本机 `nvidia-smi`／`/proc/loadavg`
+> 快照时间：2026-11-02 13:29（目标生成进行中，训练尚未启动）
+> 数字来源：`/data/hi3d/g3/exp-35k-r256-e4-v1` 实测，经 `remote_g3_status`（含 3 次 × 4 s 的 `nvidia-smi`／`/proc/loadavg` 均值）与 `logs/stream.log` 最后一行为准；速率取 15 分钟窗口。
 
 ## 一、数据流水线（A0 → A4 → 训练）
 
-```
- 源网格池 34,847 文件 / 121 GB
- （obj/glb/gltf/stl/ply + Blender 转好的 fbx/blend/dae）
-        │
-        ▼
- ┌─────────────── 目标生成（当前在跑） ───────────────┐
- │                                                    │
- │  A0  审计：闭合性 / 自交 / 符号距离                 │  CPU，一次性，已完成
- │      G3 池只留 id 级 provisional 审计               │
- │        │                                           │
- │        ▼                                           │
- │  A1  98 方向 UE50 投票定符号 + UDF 定幅值           │  CPU：18 个 worker
- │        │            （R256，16.8M 格点/件）         │  118 s/件 ≈500 核·秒
- │        ▼                                           │
- │  A2  背面壳修正（τ=0.25），修 A1 薄壁/背部错号      │  CPU：同上，同一进程内
- │        │                                           │
- │        ▼                                           │
- │  ┌──────────────────────────┐                      │
- │  │ 缓冲区 targets/a1a2/     │  161 MB/件           │  当前 7,097 件
- │  │ (待 A4 消费，超 400 GB  │  当前 1,395 件/227 GB │
- │  │  或剩余<150 GB 就暂停生产)│                      │
- │  └──────────────────────────┘                      │
- │        │                                           │
- │        ▼                                           │
- │  A3  首次可微拟合：flexicubes_smooth 提取           │  GPU：8 张卡，8–12 个消费者
- │        + 32 视角 silhouette/depth/normal，30 步     │  整件墙钟 41 s
- │        │                                           │  （A3+A4 的 GPU 部分 12.8 s）
- │        ▼                                           │
- │  A4  delta 场精修（±0.5 体素、允许改号），200 步     │  GPU：同上
- │        │            → 训练真正使用的 target.npz     │
- │        ▼                                           │
- │  targets/a4/   压缩后 20.8 MB/件（去 cell_indices、 │  当前 5,702 件
- │                训练集删 raw_mesh.ply）             │
- └────────────────────────────────────────────────────┘
-        │
-        ▼
- ┌────────── 训练（尚未启动） ──────────┐
- │  G1 VAE：稀疏编码 → 32 维 latent → 解码 │  GPU：8 卡 DDP
- │  12000 步 × batch 8                  │
- └──────────────────────────────────────┘
-```
+源网格池：34,847 文件 / 121 GB（obj/glb/gltf/stl/ply + Blender 转好的 fbx/blend/dae）。
+
+![G3 全量池：A0–A4 阶段与 CPU / GPU 资源分配](figures/g3-pipeline-map.png)
 
 ## 二、当前 CPU / GPU 任务分配
 
 | 资源 | 占用者 | 数量 | 单件成本 | 说明 |
 |---|---|---|---|---|
 | **CPU（128 线程）** | A1 + A2 worker | **18 个进程** | 118 s 墙钟 ≈ **500 核·秒** | 每进程内循环：抢 claim → 建 A1/A2 → 写结果 → 再抢下一件 |
-| CPU（少量） | A4 消费者进程 | 8–12 | ≈200 核·秒 | 读 161 MB 缓存、网格加载、A3/A4 布置、指标计算 |
+| CPU（少量） | A4 消费者进程 | 12 | ≈200–240 核·秒 | 读 161 MB 缓存、网格加载、A3/A4 布置、指标计算 |
 | CPU（少量） | 压缩守护 | 1 | 每 120 s 一轮 | 去 `cell_indices`、删训练集 ply |
-| **GPU（8×H20-143GB）** | A3 + A4 | 8–12 个分片 | 41 s 墙钟（GPU 段 12.8 s） | A3 与 A4 在**同一个作业**里顺序执行 |
+| **GPU（8×H20-143GB）** | A3 + A4 | 12 个分片 | 41 s 墙钟（GPU 段 12.8 s） | A3 与 A4 在**同一个作业**里顺序执行 |
 
-当前实测：负载 **113 / 128**，场 **0.21 件/秒**、目标 **0.25 件/秒**，磁盘可用 735 GB。按此速率剩余约 **33–35 小时**。
+当前实测（13:29）：
+
+| 指标 | 数值 |
+|---|---|
+| 负载 | **122.7 / 128**（5 分钟均值 145；瞬时 GPU 均值约 65%，4 秒 3 次采样均值 35.4%——A4 每件大部分墙钟不在 GPU 段） |
+| 速率 | 场 **0.15 件/秒**（9 件/分）、目标 **0.26 件/秒**（15.3 件/分） |
+| 完成量 | 场 8,272 / 31,551（26.2%）、目标 7,136 / 31,551（22.6%） |
+| 积压 | 1,133 件 / 176 GB（预算 400 GB，未触发 `pause`；`free_gb` 748.5） |
+| 磁盘 | 可用 **748 GB**，`targets` 已占 367 GB |
+| 剩余 ETA | 场 43.1 h（唯一瓶颈）→ 目标 26.6 h → 整体 **约 43 h，预计 11-04 08:35 完成** |
+
+注：A1/A2 现在比 A4 慢（43.1 h vs 26.6 h），GPU 侧产能有富余；要缩短总时长只能想办法让出 CPU 给 A1/A2，而不是继续加 A4 分片。
 
 ## 三、A0–A4 含义速查
 
@@ -81,4 +54,4 @@
 | **未完成** | ① 8 卡 DDP 冒烟（200 步，验证 NCCL/每 rank 峰值/续训）；② 目标全量生成后出正式 summary；③ 训练 + 评测（与 g2 的 R256 基线 3.943e-4 / 4.736e-4 对照） |
 | 训练预算 | E4 臂 12000 步约 8–15 h（取决于大件占比，首步有 455 s 预热）；随后 E0 对照臂 6–16 h |
 
-**一句话总结**：CPU 在跑 A1/A2（18 个 worker，占绝大部分算力），GPU 在跑 A3/A4（每件 30+200 步拟合），两侧通过 `targets/a1a2/` 缓冲区和 400 GB 字节预算解耦；训练侧代码已就绪，等目标生成过半后即可启动 8 卡冒烟。
+**一句话总结**：CPU 在跑 A1/A2（18 个 worker，占绝大部分算力，也是当前唯一瓶颈），GPU 在跑 A3/A4（每件 30+200 步拟合，产能有富余），两侧通过 `targets/a1a2/` 缓冲区和 400 GB 字节预算解耦；目标侧 22.6% 完成、整体预计 11-04 08:35 跑完，训练侧代码已就绪，冒烟可随时启动。另注：A1/A2 目前累计 64 件失败（`assets/` 结果里 failed 计数），需在目标生成收尾时确认是重试还是按不可用排除。
